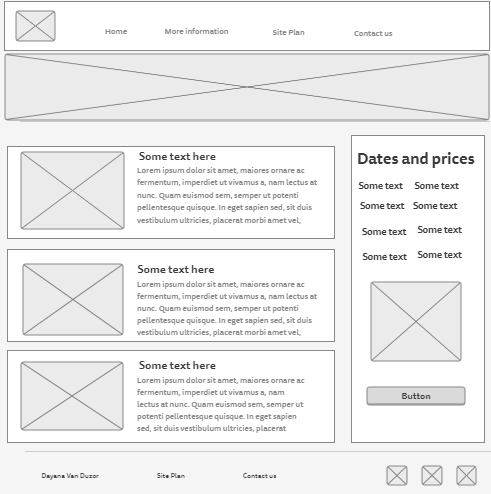
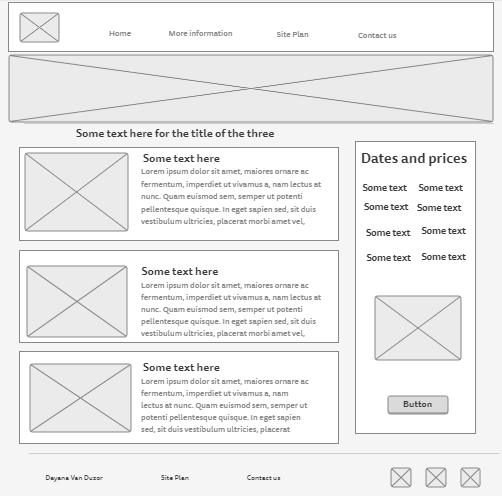
changes

diff --git a/printgrifhos/site-plan.html b/printgrifhos/site-plan.html
@@ -107,8 +107,8 @@
       <!-- Think about how you want your navigation bar to look. In the site-plan.css file change the colors to your colors to get the look you desire. --> 
       <nav>
         <a href="#">Home</a>
-        <a href="#">Page2</a>
-        <a href="#">Page3</a>
+        <a href="#">Get inspired</a>
+        <a href="#">Reviews</a>
       </nav>
       <hr>
       <h2>
@@ -119,10 +119,10 @@
           Home
         </div>
         <div class="sm-page2">
-          [Page2] <!-- change this -->
+          Get inspired <!-- change this -->
         </div>
         <div class="sm-page3">
-          [Page3]  <!-- change this -->
+          Reviews  <!-- change this -->
         </div>
 
         <div class="top">
@@ -144,16 +144,36 @@
       </h2>
       <h3>Home page</h3>
       <p>
-        [Written copy for the home page here]
+        Personalize your items with us! In imprenta Grafhos we make your ideas 
+        come to life. We print on fabric, glass, plastic, metal, ceramics, wood 
+        and paper. We work with both small and large quantities. Bring your ideas 
+        and we will help you built your design; you can also bring your own already 
+        made. Among our more popular products we have: Presentation cards, Sales 
+        notes (with and without folio), Invitations for special events, T-shirts, 
+        Cups, Publicity items, Stamps and anything you want personalize. About the 
+        methods we use: OFFSET machine printing. Also called lithography, is a method 
+        of mass-production printing in which individuals pages of paper are fed into 
+        the machine. The main advantage is the high and consistent quality of image. 
+        SILK printing. Also known as silk screen printing or screen printing. This 
+        technique involves printing ink through stencils that are supported by a porous 
+        fabric mesh stretched across a frame called a screen. The benefits are a higher 
+        quality output than digital printing, more durable for prints that are needed 
+        over the long term, can be used in a variety of different print materials 
+        including glass, wood, textiles, signs banners, electronics, ceramics and much more. 
+        Look for inspiration here (button).
       </p>
       <p>Images for the Home page</p>
         <img src="images/ofset_printing.png" alt="ofset-machine image for homepage">
         <img src="images/silk_printing.png" alt="silkprinting image for homepage">
 
       </ul>
-      <h3>[Page 2]</h3>
+      <h3>[Page 2. Get inspired]</h3>
       <p>
-        [Written copy for the Page 2 here]
+        Check our gallery to get inspired, we are able to do this and more. 
+        All the prints on your personalized items are made with care and the 
+        best quality possible. We have an option for all the budgets. The 
+        limit is your imagination! Products separated by headers of material 
+        printed on: textiles, glass, wood, metal(electronics), ceramics, plastic, etc.
       </p>
       <p>Images for the Page 2</p>
         <img src="images/calendar_img.png" alt="calendar image for page2">
@@ -163,13 +183,37 @@
         <img src="images/sales_notes.png" alt="sales notes image for page2">
 
       </ul>
-      <h3>[Page 3]</h3>
-      <p>
-        [Written copy for the Page 3 here]
+      <h3>[Page 3. Reviews]</h3>
+      <p>Reviews: How did we do? Please leave us a review. You are also welcome to post pictures.</p> 
+      <p>Angela: On time and good work. I got personalized items for my wedding with a travel theme.
+         A large number of wedding favors, personalized napkins, invitations and placeholders cards 
+         for each of my guests were made. I was very satisfied with the services given. They helped 
+         me to get the designs exactly as I wanted them. They changed the design various times until 
+         I was happy with it. They were attentive, and respectful, very professional. I would Imprenta 
+         Grafhos recommend to anyone.</p>
+      <p>Jose Morales: Good quality. I ordered personal presentation cards for my business. You 
+        can choose silk printing style on your cards, which is handmade and fancy or you can choose 
+        digital prints for your cards which allows you to put pictures or color images on it. They 
+        have a variety of prices and quality varies depending on your budget. </p>
+      <p>Sam: I need a big sign for a school project event. They helped me get much more of what I 
+        expected. They were respectful and the work was finished before the date they gave me. I’m 
+        happy with the service.</p>
+      <p>Alex: I got personalized t-shirts for a family reunion and also a personalized back pack for
+         a birthday gift. They have a friendly environment and work fast. </p>
+      <p>Adriana: Good job done. I brought fabric napkins, balloons and glasses to personalize 
+        them, and also bought invitations. All those were for the quinceanera party of my daughter. 
+        My daughter chose her design and got what she wanted. The items were delivered on time 
+        and price was reasonable. </p>
+      <p>Anna: I order my business-notes here for two years now. The owner is honest and respectful. 
+        My items are always on time, and the one time they were not going to give me the order on time, 
+        they called me and wanted to reimbursed me. I know the guys because I am a customer that comes 
+        every three months or so. They are very professional and good at communicating. They have a 
+        range of prices for everyone.</p>  
+
       </p>
       <p>Images for the Page 3</p>
-        <img src="#" alt="image for page3">
-        <img src="#" alt="image for page3">
+        <img src="images/XV_balloon.png" alt="balloons_review">
+        <img src="images/card_review.jpg" alt="card_review">
 
       </ul>
       <hr>

diff --git a/wwr/page2-wwr.html b/wwr/page2-wwr.html
@@ -1,0 +1,82 @@
+<!DOCTYPE html>
+<html lang="en">
+<head>
+    <meta charset="UTF-8">
+    <meta http-equiv="X-UA-Compatible" content="IE=edge">
+    <meta name="viewport" content="width=device-width, initial-scale=1.0">
+    <link rel="stylesheet" href="styles/page2-wwr.css">
+    <title>Whitewater Rafting Vacations | Dry Oar Boating | Page 2</title>
+</head>
+<body>
+    <div id="content">
+        <header>
+            <a id="logo_link"  href="index.html">
+                <img class="logo" src="images/logo.png" alt="Dry Oar Logo" >
+            </a>
+            <nav>
+                <a href="index.html">Home</a>
+                <a href="page2-wwr.html">More information</a>          
+                <a href="site-plan-rafting.html"> Site Plan</a>
+                <a href="contactus.html">Contact us</a>
+            </nav>
+        </header>
+        <div id="hero">
+            <div id="hero-box">
+                <img id="hero-img" src="images/idaho_river_wwr.jpg" alt="wide open scene river and pines">
+            </div>
+            <section id="hero-msg">
+                <h1 class="home-title">Have an adventure</h1>
+                <h4>Make Memories with Dry Oar</h4>
+                <div class="button-box">
+                    <a class="book" href="contactus.html">Book Now</a>
+                </div>
+            </section>
+        </div>  
+        <main> 
+            <section class="river-idaho">
+                <img class="card-img" src="images/idaho_river.jpg" alt="river Salmon Idaho">
+                <h2>River Idaho</h2>
+                <p></p>
+            </section>
+            <section class="river-utah">
+                <img class="card-img" src="images/utah_desolation.jpg" alt="river desolation utah">
+                <h2>River Utah</h2>
+                <p></p>
+            </section>
+            <section class="river-arizona">
+                <img class="card-img" src="images/arizona.jpg" alt="Grand canion arizona river">
+                <h2>River Arizona</h2>
+                <p></p>
+            </section>
+            <section class="dates-prices">
+                <h2>Prices and dates</h2>
+                <p></p>
+                <a class="Book" href="rivers.html">Book</a>
+            </section>
+            <div id="background-section"></div>
+            <img class="card-img" src="images/rafting59_600.jpg" alt="People posing on fornt of boat">
+            <section class="msg">
+                <h2>More than just the thrill</h2>
+                <p>Enjoy the breathtaking scenery. From valleys, meadows, canyons, and high peaks; it's way more than just the rapids of the water. Experience a great way to get away from it all and relax amongst all the beauty of the great outdoors. </p>
+                <a class="join" href="rivers.html">Join us</a>
+            </section>   
+        </main>
+        <footer>
+            <p>Dry Oar &copy; 2022 - Dayana Van Duzor </p>
+            <p><a href="site-plan-rafting.html">Site Plan</a></p>
+            <p><a href="contactus.html">Contact Us</a></p>
+            <div class="social">
+                <a href="https://facebook.com" target="_blank"> 
+                    <img src="images/facebook.png" alt="fb icon">
+                </a>
+                <a href="https://twitter.com" target="'_blank">
+                    <img src="images/twitter.png" alt="twitter icon">
+                </a>
+                <a href="https://instagram.com" target="_blank">
+                    <img src="images/instagram.png" alt="instagram icon">
+                </a>
+            </div>
+        </footer>
+    </div>
+</body>
+</html>
